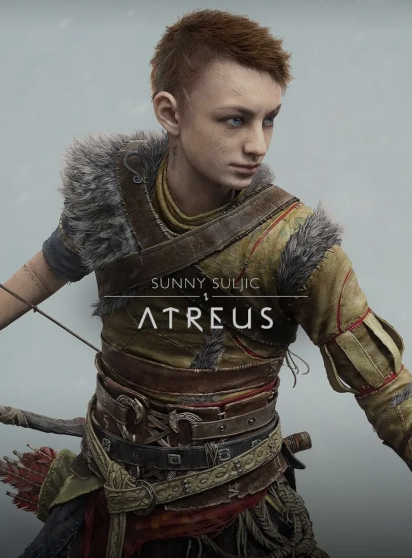
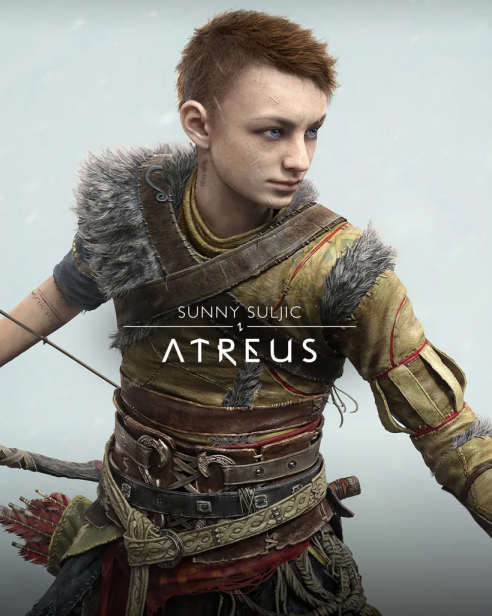
adicionando responsividade ao slide da s-character

diff --git a/scss/main.css b/scss/main.css
@@ -107,7 +107,9 @@ p {
   display: flex;
   justify-content: center;
   width: 100%;
-  height: 48rem;
+  height: 100%;
+  -o-object-fit: cover;
+     object-fit: cover;
   margin-bottom: 2.4rem;
   overflow: hidden;
 }
@@ -142,6 +144,11 @@ p {
 .card-character:hover .image button {
   opacity: 1;
   bottom: 5.7rem;
+}
+@media (max-width: 991px) {
+  .card-character .image {
+    height: 44rem;
+  }
 }
 
 header {
@@ -524,9 +531,6 @@ header .container .platform ul li {
   font-size: 1.8rem;
   line-height: 140%;
 }
-.s-character .container .slide-character {
-  display: none;
-}
 @media (max-width: 1200px) {
   .s-character {
     padding: 6rem 0;
@@ -562,5 +566,8 @@ header .container .platform ul li {
     max-width: 100%;
     font-size: 1.6rem;
     line-height: 2.4rem;
+  }
+  .s-character .container .slide-character {
+    margin-top: 4rem;
   }
 }/*# sourceMappingURL=main.css.map */

diff --git a/scss/_patterns.scss b/scss/_patterns.scss
@@ -61,7 +61,8 @@ p {
         justify-content: center;
 
         width: 100%;
-        height: 48rem;
+        height: 100%;
+        object-fit: cover;
         margin-bottom: 2.4rem;
 
         overflow: hidden;
@@ -108,6 +109,12 @@ p {
                 opacity: 1;
                 bottom: 5.7rem;
             }
+        }
+    }
+
+    @media(max-width: 991px) {
+        .image {
+            height: 44rem;
         }
     }
 }

diff --git a/js/main.js b/js/main.js
@@ -2,4 +2,18 @@ var swiper = new Swiper(".slide-character", {
     slidesPerView: 3.5,
     spaceBetween: 19,
     freeMode: true,
+    breakpoints: {
+      320: {
+        slidesPerView: 1.2,
+      },
+      768: {
+        slidesPerView: 2.2,
+      },
+      991: {
+        slidesPerView: 2.8,
+      },
+      1200: {
+        slidesPerView: 3.5,
+      }
+    },
   });

diff --git a/scss/_home.scss b/scss/_home.scss
@@ -386,9 +386,6 @@
                 }
             }
         }
-        .slide-character {
-            display: none;
-        }
     }
 
     @media(max-width: 1200px) {
@@ -435,6 +432,9 @@
                         }
                     }
                 }
+            }
+            .slide-character {
+                margin-top: 4rem;
             }
         }
     }
